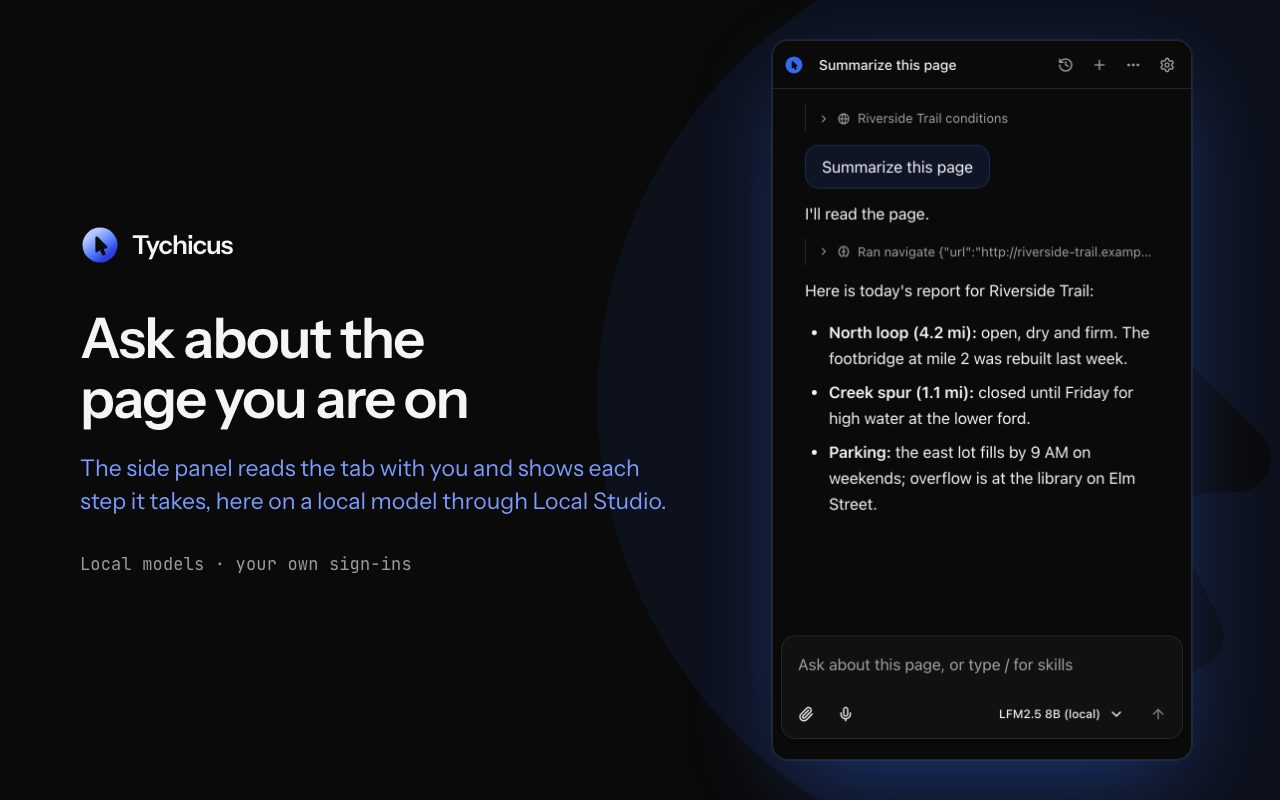
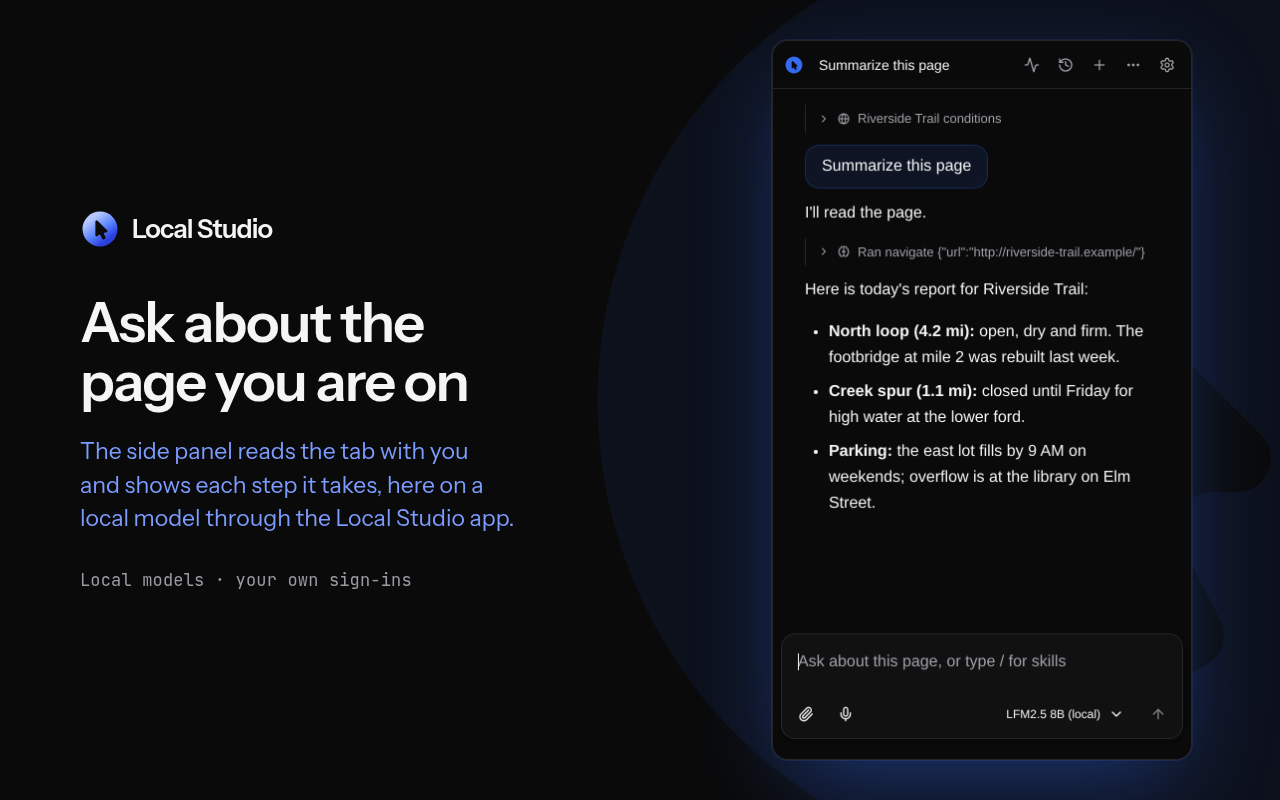
Store listing, store images and the site say Local Studio
The images are redrawn from the built extension by scripts/store-shots.mjs,
which now refuses a capture that shows the old name.

diff --git a/site/src/frontend/index.html b/site/src/frontend/index.html
@@ -3,16 +3,16 @@
 <head>
 	<meta charset="UTF-8">
 	<meta name="viewport" content="width=device-width, initial-scale=1.0">
-	<title>Tychicus: you steer, your agents work the tabs</title>
+	<title>Local Studio: you steer, your agents work the tabs</title>
 	<meta name="description" content="Let Claude Code, Codex or any MCP agent drive your real Chromium browser in its own tab group, with your approval for every new site. One command to set up.">
-	<meta property="og:title" content="Tychicus">
+	<meta property="og:title" content="Local Studio">
 	<meta property="og:description" content="You steer. Your agents work the tabs.">
 	<link rel="icon" href="img/favicon.svg" type="image/svg+xml">
 	<link rel="stylesheet" href="app.css">
 </head>
 <body>
 	<header class="nav">
-		<a class="brand" href="#top"><img src="img/icon.svg" alt="" width="28" height="28"><span>Tychicus</span></a>
+		<a class="brand" href="#top"><img src="img/icon.svg" alt="" width="28" height="28"><span>Local Studio</span></a>
 		<nav>
 			<a href="#start">Quick start</a>
 			<a href="#safety">Safety</a>
@@ -41,7 +41,7 @@
 				</p>
 			</div>
 			<figure class="hero-demo">
-				<img src="img/demo.gif" alt="A scripted MCP client searches a library catalog, places a hold and reads the confirmation through Tychicus's tools" width="960" height="464">
+				<img src="img/demo.gif" alt="A scripted MCP client searches a library catalog, places a hold and reads the confirmation through Local Studio's tools" width="960" height="464">
 				<figcaption>A scripted MCP client driving the real stack, recorded headless. The page in each frame is its own screenshot.</figcaption>
 			</figure>
 		</section>
@@ -55,7 +55,7 @@
 <span class="p">$</span> git clone https://github.com/baney75/tabkyra &amp;&amp; cd tabkyra
 <span class="p">$</span> (cd cli &amp;&amp; npm install &amp;&amp; npm run build &amp;&amp; npm link)
 <span class="p">$</span> tychicus setup
-<span class="b">Tychicus</span> <span class="d">setup 0.1.0</span>
+<span class="b">Local Studio</span> <span class="d">setup 0.1.0</span>
 
 <span class="b">1.</span> Build the extension
   <span class="g">✓</span> Extension built <span class="d">(1.1.8)</span>
@@ -70,13 +70,13 @@
 <span class="d">│</span>    and click <span class="w">Load unpacked</span>.                                <span class="d">│</span>
 <span class="d">│</span> <span class="b">2</span>  Pick this folder:                                       <span class="d">│</span>
 <span class="d">│</span>    <span class="c">/path/to/tabkyra/dist-chrome</span>                            <span class="d">│</span>
-<span class="d">│</span> <span class="b">3</span>  Optional: click <span class="w">Details</span> on Tychicus and turn on         <span class="d">│</span>
+<span class="d">│</span> <span class="b">3</span>  Optional: click <span class="w">Details</span> on Local Studio and turn on     <span class="d">│</span>
 <span class="d">│</span>    <span class="w">Allow user scripts</span> (faster page scripts).               <span class="d">│</span>
 <span class="d">╰────────────────────────────────────────────────────────────╯</span>
-  <span class="g">✓</span> Connected. Tychicus can reach your browser <span class="d">(1.1.8)</span>.</code></pre>
+  <span class="g">✓</span> Connected. Local Studio can reach your browser <span class="d">(1.1.8)</span>.</code></pre>
 			</div>
 			<ol class="steps">
-				<li><b>Setup does the work.</b> It builds the extension, registers the native host with every Chromium browser it finds, and offers to add Tychicus to Claude Code and Codex. For OpenCode, Cursor and OMP it prints the config to paste.</li>
+				<li><b>Setup does the work.</b> It builds the extension, registers the native host with every Chromium browser it finds, and offers to add Local Studio to Claude Code and Codex. For OpenCode, Cursor and OMP it prints the config to paste.</li>
 				<li><b>One step is yours.</b> Browsers make you load an unpacked extension by hand. Setup shows the exact folder and waits until it connects.</li>
 				<li><b>Ask your agent.</b> For example: <i>"Use Tychicus to open news.ycombinator.com and list the top five stories."</i> If anything is off, <code>tychicus doctor</code> prints the exact fix.</li>
 			</ol>
@@ -96,11 +96,11 @@
 				</article>
 				<article>
 					<h3>Its own tab group</h3>
-					<p>Agents work in "Tychicus · claude" and similar groups, in background tabs. They can't see your other tabs, and their popups don't steal focus.</p>
+					<p>Agents work in "Local Studio · claude" and similar groups, in background tabs. They can't see your other tabs, and their popups don't steal focus.</p>
 				</article>
 				<article>
 					<h3>Nothing on the network</h3>
-					<p>The browser starts a native host that talks over a Unix socket other users can't open. Only the Tychicus extension can make the browser start it. Programs running as you can reach it, as they can your shell.</p>
+					<p>The browser starts a native host that talks over a Unix socket other users can't open. Only the Local Studio extension can make the browser start it. Programs running as you can reach it, as they can your shell.</p>
 				</article>
 			</div>
 		</section>
@@ -113,7 +113,7 @@
 				<g class="node"><rect x="206" y="20" width="176" height="80" rx="14"/><text x="294" y="56">tychicus mcp</text><text class="sub" x="294" y="78">MCP over stdio</text></g>
 				<g class="node"><rect x="412" y="20" width="176" height="80" rx="14"/><text x="500" y="56">Native host</text><text class="sub" x="500" y="78">Unix socket, user-only</text></g>
 				<g class="node"><rect x="618" y="20" width="176" height="80" rx="14"/><text x="706" y="56">Extension</text><text class="sub" x="706" y="78">native messaging</text></g>
-				<g class="node tabs"><rect x="824" y="20" width="176" height="80" rx="14"/><text x="912" y="56">Background tabs</text><text class="sub" x="912" y="78">Tychicus · claude</text></g>
+				<g class="node tabs"><rect x="824" y="20" width="176" height="80" rx="14"/><text x="912" y="56">Background tabs</text><text class="sub" x="912" y="78">Local Studio · claude</text></g>
 				<g class="edge"><line x1="179" y1="60" x2="203" y2="60" marker-end="url(#ar)"/><line x1="385" y1="60" x2="409" y2="60" marker-end="url(#ar)"/><line x1="591" y1="60" x2="615" y2="60" marker-end="url(#ar)"/><line x1="797" y1="60" x2="821" y2="60" marker-end="url(#ar)"/></g>
 			</svg>
 			<p class="section-lede">Each agent session gets its own tab group, and it survives extension reloads, so a harness that reconnects lands back on its own tabs. Screenshots and input go through <code>chrome.debugger</code>, which works on hidden tabs, so your window never has to be in front.</p>
@@ -125,7 +125,7 @@
 				<article>
 					<h3><a href="https://github.com/0xSero">0xSero</a></h3>
 					<p class="repo"><a href="https://github.com/0xSero/sitegeist">github.com/0xSero/sitegeist</a></p>
-					<p>Built the agent bridge Tychicus is made of: the native messaging host, the CLI and MCP server, one tab group per agent, background screenshots and input, per-tab side panels and the foreground guard.</p>
+					<p>Built the agent bridge Local Studio is built on: the native messaging host, the CLI and MCP server, one tab group per agent, background screenshots and input, per-tab side panels and the foreground guard.</p>
 				</article>
 				<article>
 					<h3><a href="https://github.com/badlogic">Mario Zechner</a></h3>
@@ -133,7 +133,7 @@
 					<p>Wrote Sitegeist, the original extension and its side panel agent, and the pi and mini-lit libraries it runs on.</p>
 				</article>
 				<article>
-					<h3><a href="https://github.com/baney75/tabkyra">Tychicus</a></h3>
+					<h3><a href="https://github.com/baney75/tabkyra">Local Studio</a></h3>
 					<p class="repo"><a href="https://github.com/baney75/tabkyra">github.com/baney75/tabkyra</a></p>
 					<p>The name and brand, one-command setup, the doctor, Helium support, and MCP tools documented for agents. AGPL-3.0, like upstream.</p>
 				</article>
@@ -142,7 +142,7 @@
 	</main>
 
 	<footer>
-		<div class="foot-brand"><img src="img/icon.svg" alt="" width="22" height="22"> Tychicus <span>· Paul's courier, Ephesians 6:21</span></div>
+		<div class="foot-brand"><img src="img/icon.svg" alt="" width="22" height="22"> Local Studio</div>
 		<p>
 			Built on <a href="https://github.com/0xSero/sitegeist">0xSero's agent bridge</a> and
 			<a href="https://github.com/badlogic/sitegeist">Mario Zechner's Sitegeist</a>.

diff --git a/site/src/frontend/app.css b/site/src/frontend/app.css
@@ -1,4 +1,4 @@
-/* Tychicus site. Palette and type: media/brand/BRAND.md. */
+/* Local Studio site. Palette and type: media/brand/BRAND.md. */
 :root {
 	--ink: #0f1b24;
 	--ink-2: #142430;

diff --git a/store/listing.md b/store/listing.md
@@ -10,7 +10,7 @@ scripts/build-store.sh "$HOME/Downloads/tychicus-store"
 ```
 
 It writes `tychicus-<version>-store.zip` (the version is `static/manifest.chrome.json`'s, which must equal
-`package.json`'s). The build refuses a zip whose manifest has a `key`, a name other than Tychicus, a missing icon, or a
+`package.json`'s). The build refuses a zip whose manifest has a `key`, a name other than Local Studio, a missing icon, or a
 permission with no row in permissions.md.
 
 ## Order of the first upload
@@ -30,7 +30,7 @@ permission with no row in permissions.md.
 
 ## Store listing tab
 
-**Title:** Tychicus
+**Title:** Local Studio
 
 **Summary** (from the manifest's `description`, 132 characters at most):
 
@@ -45,14 +45,14 @@ Lets AI agents work in your browser, in their own tab group, while you keep work
 **Description:**
 
 ```
-Tychicus lets an AI agent work in your browser while you keep working. The agent gets a tab group of its own and works there in the background: it opens pages, reads them, clicks, fills in forms and checks its own work, without taking focus from the tab you are using. Your tabs stay yours.
+Local Studio lets an AI agent work in your browser while you keep working. The agent gets a tab group of its own and works there in the background: it opens pages, reads them, clicks, fills in forms and checks its own work, without taking focus from the tab you are using. Your tabs stay yours.
 
 What it does well:
 
 • Its own tab group. Each agent works in a group of its own tabs, marked while it works, with a pointer that shows what it is doing and a "Take over" button.
 • Background tabs, no stolen focus. The agent acts in its tabs without bringing them to the front, so you can keep typing somewhere else.
-• The agents you already use. Claude Code, Codex, Cursor, OpenCode, pi and any other MCP agent drive your browser through the free Tychicus helper on your computer. With the helper and your own Tailscale or Cloudflare tunnel, claude.ai, ChatGPT and grok.com can use it too.
-• Local models through Local Studio. With Local Studio on your computer, the side panel chats on your local models and the plans you signed in to there, with no API key or sign-in in the extension.
+• The agents you already use. Claude Code, Codex, Cursor, OpenCode, pi and any other MCP agent drive your browser through the free Local Studio helper on your computer. With the helper and your own Tailscale or Cloudflare tunnel, claude.ai, ChatGPT and grok.com can use it too.
+• Local models through the Local Studio app. With the app on your computer, the side panel chats on your local models and the plans you signed in to there, with no API key or sign-in in the extension.
 • Or bring an API key from Anthropic, OpenAI, Google, OpenRouter and others, or use a free OpenRouter key.
 
 Set up the helper in one command. The welcome screen shows the one for your computer with a Copy button, and shows the helper connected as soon as it runs.
@@ -69,13 +69,13 @@ You stay in charge:
 • It stops and hands the tab to you for sign-ins and captchas.
 • Private mode sends prompts only to models that don't keep them, or to your own machines.
 
-No account, no analytics, and open source under the AGPL-3.0. Tychicus runs no servers of its own. Your chats and settings stay on your computer, and your messages, and what the agent reads, go only to the AI you picked.
+No account, no analytics, and open source under the AGPL-3.0. Local Studio runs no servers of its own. Your chats and settings stay on your computer, and your messages, and what the agent reads, go only to the AI you picked.
 
-Tychicus comes three ways: a Local Studio plugin, an app you install on its own, and this Chrome extension. The extension works with or without Local Studio.
+The browser tools come three ways: with the Local Studio app, as a helper you install on its own, and as this Chrome extension. The extension works with or without the app.
 
-A note on provider terms: using a consumer chat subscription through automation may break that provider's terms of service. Some allow it, some forbid it, and terms change. Tychicus doesn't decide this for you. Read your provider's terms before you connect a subscription; API keys under a developer agreement are the safer route where terms are unclear.
+A note on provider terms: using a consumer chat subscription through automation may break that provider's terms of service. Some allow it, some forbid it, and terms change. Local Studio doesn't decide this for you. Read your provider's terms before you connect a subscription; API keys under a developer agreement are the safer route where terms are unclear.
 
-Local Studio chats need macOS or Linux for now.
+Chats through the Local Studio app need macOS or Linux for now.
 
 Source: https://github.com/baney75/tychicus
 Built on 0xSero's agent bridge and Mario Zechner's Sitegeist.
@@ -98,7 +98,7 @@ Built on 0xSero's agent bridge and Mario Zechner's Sitegeist.
 **Single purpose:**
 
 ```
-Tychicus lets AI agents operate web pages in the user's browser on the user's behalf, from its side panel or from an AI agent the user connects.
+Local Studio lets AI agents operate web pages in the user's browser on the user's behalf, from its side panel or from an AI agent the user connects.
 ```
 
 **Permission justifications:** paste each row of [permissions.md](permissions.md) into its box.
@@ -137,5 +137,5 @@ No account is needed.
 3. Ask: "Open example.com and tell me what the page says."
 4. Approve example.com when asked. A new tab group opens, and the agent reads the page in it.
 
-Connecting a coding agent needs the free Tychicus helper. The welcome shows the command that installs it (curl -fsSL https://github.com/baney75/tychicus/releases/latest/download/install.sh | sh on macOS and Linux). It isn't required to review the side panel.
+Connecting a coding agent needs the free Local Studio helper. The welcome shows the command that installs it (curl -fsSL https://github.com/baney75/tychicus/releases/latest/download/install.sh | sh on macOS and Linux). It isn't required to review the side panel.
 ```

diff --git a/store/permissions.md b/store/permissions.md
@@ -16,8 +16,8 @@ or a row names something the manifest no longer asks for.
 | `debugger` | The agent's clicks, typing and page reads go through the Chrome DevTools Protocol. This is the only way to send real input to a background tab, and to read pages whose security policy blocks injected scripts. It attaches only to tabs the agent opened or the user gave it. |
 | `declarativeNetRequest` | One fixed rule set in the package, `ads-rules.json`, blocks requests to known ad networks, off until the user turns on "Block ads" in Settings. Rules made from the user's own site edits (Settings > Sites) block the requests those edits name, on the sites the user chose. No other traffic is changed. |
 | `tabGroups` | Puts the agent's tabs in their own named group, so they stay separate from the user's tabs. |
-| `contextMenus` | Adds "Give this tab to Tychicus" to a page's right-click menu and the toolbar icon's menu, so the user can hand the tab to the side panel or to an agent working in the browser. |
-| `nativeMessaging` | Talks to the Tychicus helper on the user's own computer. The side panel's default, "Local Studio", sends each chat through it to Local Studio's model service on the same computer, so the extension never holds an API key or sign-in. Coding agents such as Claude Code reach the browser through it too. Key-based providers work without it. |
+| `contextMenus` | Adds "Give this tab to Local Studio" to a page's right-click menu and the toolbar icon's menu, so the user can hand the tab to the side panel or to an agent working in the browser. |
+| `nativeMessaging` | Talks to Local Studio's helper on the user's own computer. The side panel's default, "Local Studio", sends each chat through it to the Local Studio app's model service on the same computer, so the extension never holds an API key or sign-in. Coding agents such as Claude Code reach the browser through it too. Key-based providers work without it. |
 | `alarms` | Keeps the connection to the helper alive across service worker restarts, and checks the helper's update status. |
 | `offscreen` | Reads the text of a PDF the agent opens, page by page, in a hidden page of the extension: Chrome's PDF viewer has no page text, and the reader (pdf.js) needs a worker a service worker can't start. The same page encodes a video of the agent's own tab when the user's agent asks for a recording (a service worker has no video encoder); the helper saves it to a file on the user's computer. Nothing leaves the computer. |
 | `userScripts` (optional) | Asked for only when the user turns it on. Runs the agent's page scripts in an isolated world, so they can't touch the page's own scripts and aren't blocked by its security policy. |
